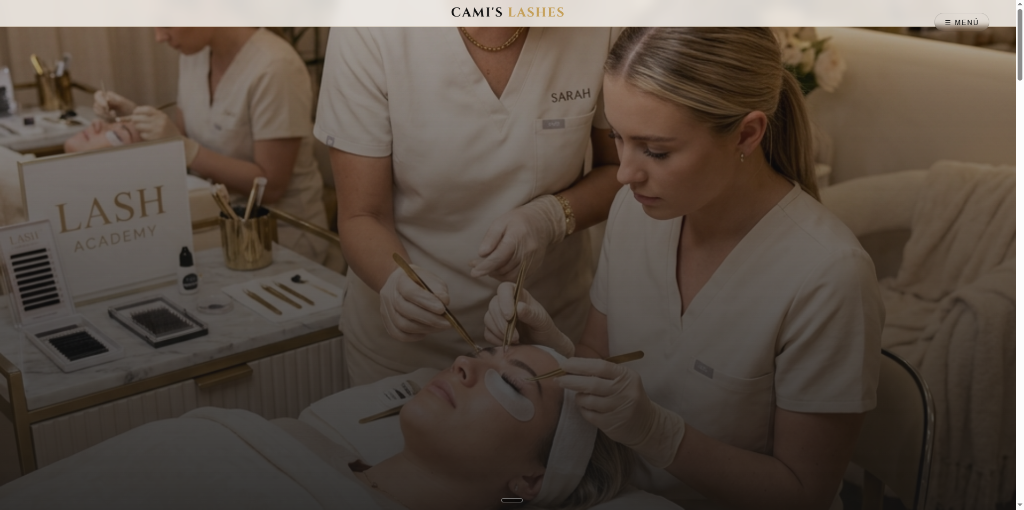
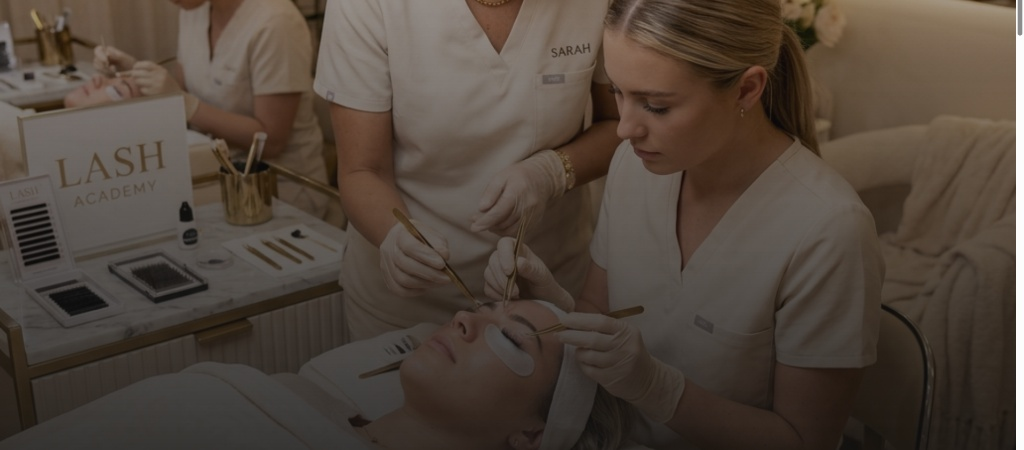
fix(spa-view): hide lower categorized stage on initial load when Los Más Pedidos is active, crop screenshot header bars from card images

diff --git a/index.html b/index.html
@@ -2260,6 +2260,10 @@
         /* ══════════════════════════════════════════════
            MIXED HIGHLIGHTS GRID (TODO EL MENÚ VIEW)
            ══════════════════════════════════════════════ */
+        #spaCategorizedStage {
+            display: none;
+        }
+
         .spa-mixed-highlights-grid {
             display: grid;
             grid-template-columns: repeat(auto-fill, minmax(280px, 1fr));
@@ -2291,44 +2295,43 @@
             background: linear-gradient(135deg, rgba(34, 24, 28, 0.95) 0%, rgba(20, 14, 16, 0.98) 100%) !important;
         }
 
+        
         .m-card-img-wrap {
             position: relative;
             width: 100%;
             height: 180px;
             overflow: hidden;
-            background: #000;
+            background: #0E0A0C;
         }
 
         .m-card-img {
             width: 100%;
             height: 100%;
             object-fit: cover;
-            object-position: center;
-            transition: transform 0.7s ease;
-        }
-
-        .mixed-highlight-card:hover .m-card-img {
-            transform: scale(1.06);
+            object-position: center 30%;
+            transition: transform 0.7s cubic-bezier(0.16, 1, 0.3, 1);
         }
 
         .m-card-badge {
             position: absolute;
-            top: 12px;
-            left: 12px;
-            background: rgba(18, 12, 16, 0.85);
+            top: 10px;
+            left: 10px;
+            background: rgba(14, 10, 12, 0.88);
             border: 1px solid rgba(235, 198, 205, 0.4);
             color: #FFF6F8;
             font-size: 0.68rem;
             font-weight: 600;
             padding: 4px 10px;
             border-radius: 999px;
-            backdrop-filter: blur(6px);
+            backdrop-filter: blur(8px);
+            box-shadow: 0 4px 10px rgba(0, 0, 0, 0.6);
+            z-index: 2;
         }
 
         .m-card-price {
             position: absolute;
-            top: 12px;
-            right: 12px;
+            top: 10px;
+            right: 10px;
             background: linear-gradient(135deg, #EBC6CD 0%, #E2C799 100%);
             color: #1A1215;
             font-family: 'Cinzel', serif;
@@ -2336,8 +2339,10 @@
             font-weight: 800;
             padding: 4px 12px;
             border-radius: 999px;
-            box-shadow: 0 4px 12px rgba(0, 0, 0, 0.5);
+            box-shadow: 0 4px 12px rgba(0, 0, 0, 0.6);
+            z-index: 2;
         }
+
 
         .m-card-content {
             padding: 16px;
@@ -8049,7 +8054,7 @@
                 </div>
 
                 <!-- VISTA 2: LISTAS CATEGORIZADAS + SHOWCASE (Activo al elegir Pestañas, Cejas, Masajes o Pedicura) -->
-                <div class="spa-menu-stage-grid" id="spaCategorizedStage">
+                <div class="spa-menu-stage-grid" id="spaCategorizedStage" style="display: none;">
                     
                     <!-- Columna Izquierda: Las Tablitas Estilo Menú Chef -->
                     <div class="spa-menu-boards-col">
